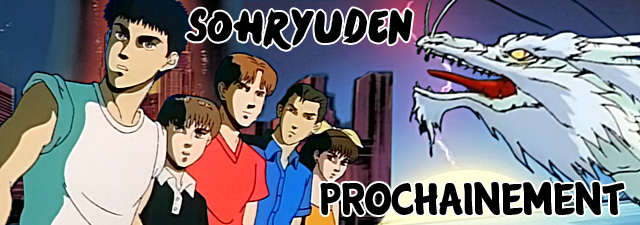
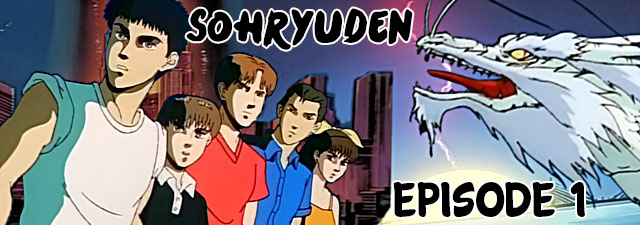
new release+bgd update

diff --git a/2016-10-30.html b/2016-10-30.html
@@ -1,7 +1,7 @@
-<!DOCTYPE html>
+<!DOCTYPE html>
 <html lang="fr-FR">
 	<head>
-		<title>Sohryuden - Legend of the Dragon Kings | Nobluesky Fansub</title>
+		<title>Sohryuden 01 vostfr | Nobluesky Fansub</title>
 		<meta charset="utf-8" />
 		<link rel="Shortcut Icon" type="image/x-icon" href="favicon.ico" />
 		<link href="fonts/fonts.css" rel="stylesheet" type="text/css" />
@@ -24,7 +24,6 @@
 	</div>
 </div>
 <!-- end #menu -->
-
 <div id="page-wrapper">
 <div id="sidebar-wrapper">
 	<div id="sidebar">
@@ -37,21 +36,38 @@
 	<div id="article">
 		<div id="content">
 			<div class="post">
-				<h1 class="title">Sohryuden</h1>
-				<div style="clear: both;">&nbsp;</div>
+				<h1 class="title">Sohryuden 01 vostfr</h1>
+				<p class="meta"><span class="date">30 Octobre 2016</span><span class="posted">Posté par <a href="about.html#nobluesky">Nobluesky</a></span></p>
 				<div style="clear: both;">&nbsp;</div>
 				<div class="entry">
-					<img class="post-images" src="images/2016/sohryuden.jpg" alt="" />
-					<p>12 OAV de 45 min, 1991.</p>
-					<p>Aussi connue sous les titres de Legend of the Dragon Kings, Legend of the Four Kings, Sohryuuden, Souryuuden.</p>
-					<p>Les frères Ryudo semblent mener une vie normale dans leur grande maison.</p>
-					<p>Mais ils gardent un secret millénaire : leurs ancêtres étaient des dragons, et les immenses pouvoirs de ces aïeux légendaires pourraient bien se réveiller, sous l'impulsion d'une mystérieuses organisation qui ne recule devant rien pour les manipuler.</p>
-					<p>Adaptée très librement du manga, notamment au niveau du design des personnages, Sohryuden est une série plus proche des années 80 que 90, à prendre impérativement au second degré de par son exagération qui touche parfois au gore, mais qui reste un bon divertissement.</p>
+					<img class="post-images" src="images/2016/news29.jpg" alt="" />
+					<p>Bien le bonsoir.</p>
+					<p>Après une gestation interminable, digne d'une vache (9 mois), ou même d'une éléphante (20 à 22 mois), j'annonce ouverte la chasse au dragon !</p>
+					<p>Dragon dont je ne connais pas la période de gestation d'ailleurs. D'ailleurs ça serait plutôt incubation, car ça pond des œufs un dragon nan ?</p>
+					<p>Je le rappelle de nouveau car ça ne fait pas de mal : inutile de prendre la série au sérieux. Les clichés sont volontaires, la violence exagérée et ringarde aussi :P C'est pour ça que j'apprécie cette série qui, si elle n'est pas d'une qualité extraordinaire, reste une bonne détente.</p>
+					<p>Et puis merde, on fait ce qu'on veut dans le fansub, c'est fait pour !</p>
+					<p>Je le rappelle aussi, le choix des vieilles séries est bénéfique pour éviter l'oversub et le fansub de séries sous licence, c'est pour ça que je me prends aujourd'hui en écrivant cette news pour quelqu'un de trop cool (kakkoii !!). Nan mais t'as vu son égo, à Nobluesky xD</p>
+					<p>Merci à Yone pour sa correction.</p>
+					<p>À dans pas trop longtemps pour Teekyuu.</p>
 					<h3>Téléchargements et streaming</h3>
-					Episode 1 :
 					<p class="links dl"><a href="http://jheberg.net/captcha/nobluesub-sohryuden-01-640x480-x264/" class="button-dl">Jheberg</a></p>&nbsp; | &nbsp;
 					<p class="links dl"><a href="https://rutube.ru/video/02a8bc26f97dad34abd8f876aeedd54a/" class="button-dl">Rutube</a></p>&nbsp; | &nbsp;
 					<p class="links dl"><a href="https://mega.nz/#!HRNiSL7Q!jIER_e-xwEpuZ0XOGxNOK7DHBjDfLUaDLhXY1T0Bw4c" class="button-dl">Mega</a></p>
+					<h3>Commentaires</h3>
+					<div id="disqus_thread"></div>
+					<script type="text/javascript">
+						/* * * CONFIGURATION VARIABLES: EDIT BEFORE PASTING INTO YOUR WEBPAGE * * */
+						var disqus_shortname = 'noblueskyfansub'; // required: replace example with your forum shortname
+
+						/* * * DON'T EDIT BELOW THIS LINE * * */
+						(function() {
+							var dsq = document.createElement('script'); dsq.type = 'text/javascript'; dsq.async = true;
+							dsq.src = '//' + disqus_shortname + '.disqus.com/embed.js';
+							(document.getElementsByTagName('head')[0] || document.getElementsByTagName('body')[0]).appendChild(dsq);
+						})();
+					</script>
+					<noscript>Activez javascript pour voir les commentaires.</noscript>
+					<a href="http://disqus.com" class="dsq-brlink">commentaires propulsés par <span class="logo-disqus">Disqus</span></a>
 				</div>
 			</div>
 			<div style="clear: both;">&nbsp;</div>

diff --git a/index.html b/index.html
@@ -35,7 +35,7 @@
 	<div class="slider-wrapper theme-default">
 		<div class="ribbon"></div>
 		<div id="slider" class="nivoSlider">
-			<a href="2016-10-19.html"><img src="images/img02.jpg" alt="" /></a><a href="sohryuden.html"><img src="images/img01.jpg" alt="" /></a>
+			<a href="2016-10-30.html"><img src="images/img01.jpg" alt="" /></a><a href="2016-10-19.html"><img src="images/img02.jpg" alt="" /></a>
 		</div>
 	</div>
 <script type="text/javascript">
@@ -59,6 +59,20 @@
 				<div style="clear: both;">&nbsp;</div>
 				<div class="entry">
 					<p>Bienvenue sur le site de la Nobluesky Fansub !</p>
+				</div>
+			</div>
+			<div class="post">
+				<h1 class="title"><a href="2016-10-30.html">Sohryuden 01 vostfr</a></h1>
+				<p class="meta"><span class="date">30 Octobre 2016</span><span class="posted">Posté par <a href="about.html#nobluesky">Nobluesky</a></span></p>
+				<p><a href="http://nobluesub.com/2016-10-30.html#disqus_thread">Commentaires</a></p>
+				<div style="clear: both;">&nbsp;</div>
+				<div class="entry">
+					<img class="post-images" src="images/2016/news29.jpg" alt="" />
+					<p><p>Bien le bonsoir.</p>
+					<p>Après une gestation interminable, digne d'une vache (9 mois), ou même d'une éléphante (20 à 22 mois), j'annonce ouverte la chasse au dragon !</p>
+					<p>Dragon dont je ne connais pas la période de gestation d'ailleurs. D'ailleurs ça serait plutôt incubation, car ça pond des œufs un dragon nan ?</p>
+					<p>Je le rappelle de nouveau car ça ne fait pas de mal : inutile de prendre la série au sérieux. Les clichés sont volontaires...</p>
+					<p class="links"><a href="2016-10-30.html" class="button">Lire la suite</a></p>
 				</div>
 			</div>
 			<div class="post">
@@ -114,20 +128,6 @@
 					<p>Hayato et son équipe ont fait partie intégrante de ma vie durant ces deux dernières années, et c'est un peu comme si j'avais vécu avec les personnages durant toutes ces heures de travail.</p>
 					<p>Ce que j'aime particulièrement...</p>
 					<p class="links"><a href="2016-09-01.html" class="button">Lire la suite</a></p>
-				</div>
-			</div>
-			<div class="post">
-				<h1 class="title"><a href="2016-08-06.html">Future GPX Cyber Formula BD 36 vostfr</a></h1>
-				<p class="meta"><span class="date">6 Août 2016</span><span class="posted">Posté par <a href="about.html#nobluesky">Nobluesky</a></span></p>
-				<p><a href="http://nobluesub.com/2016-08-06.html#disqus_thread">Commentaires</a></p>
-				<div style="clear: both;">&nbsp;</div>
-				<div class="entry">
-					<img class="post-images" src="images/2016/news24.jpg" alt="" />
-					<p>Bonjour à tous les fans de Cyber Formule !</p>
-					<p>Aujourd'hui, grande nouvelle, on commence la finale du Grand Prix Mondial ! Avec une débauche d'images sympas, et une ambiance du tonnerre.</p>
-					<p>Ganbatte, Hayato !!</p>
-					<p>Bon épisode, et à la prochaine...</p>
-					<p class="links"><a href="2016-08-06.html" class="button">Lire la suite</a></p>
 				</div>
 			</div>
 			<div id="button-page-wrapper">

diff --git a/page2.html b/page2.html
@@ -31,7 +31,7 @@
 	<div class="slider-wrapper theme-default">
 		<div class="ribbon"></div>
 		<div id="slider" class="nivoSlider">
-			<a href="2016-10-19.html"><img src="images/img02.jpg" alt="" /></a><a href="sohryuden.html"><img src="images/img01.jpg" alt="" /></a>
+			<a href="2016-10-30.html"><img src="images/img01.jpg" alt="" /></a><a href="2016-10-19.html"><img src="images/img02.jpg" alt="" /></a>
 		</div>
 	</div>
 <script type="text/javascript">
@@ -50,6 +50,20 @@
 </div>
 	<div id="feed">
 		<div id="content">
+			<div class="post">
+				<h1 class="title"><a href="2016-08-06.html">Future GPX Cyber Formula BD 36 vostfr</a></h1>
+				<p class="meta"><span class="date">6 Août 2016</span><span class="posted">Posté par <a href="about.html#nobluesky">Nobluesky</a></span></p>
+				<p><a href="http://nobluesub.com/2016-08-06.html#disqus_thread">Commentaires</a></p>
+				<div style="clear: both;">&nbsp;</div>
+				<div class="entry">
+					<img class="post-images" src="images/2016/news24.jpg" alt="" />
+					<p>Bonjour à tous les fans de Cyber Formule !</p>
+					<p>Aujourd'hui, grande nouvelle, on commence la finale du Grand Prix Mondial ! Avec une débauche d'images sympas, et une ambiance du tonnerre.</p>
+					<p>Ganbatte, Hayato !!</p>
+					<p>Bon épisode, et à la prochaine...</p>
+					<p class="links"><a href="2016-08-06.html" class="button">Lire la suite</a></p>
+				</div>
+			</div>
 			<div class="post">
 				<h1 class="title"><a href="2016-07-21.html">Future GPX Cyber Formula BD 35 vostfr</a></h1>
 				<p class="meta"><span class="date">21 Juillet 2016</span><span class="posted">Posté par <a href="about.html#nobluesky">Nobluesky</a></span></p>
@@ -103,19 +117,6 @@
 					<p>En ce jour maussade et orageux, je n'ai pas encore débranché mon PC ni mes autres équipements, car je devais terminer de sortir l'épisode que vous attendez avec impatience!</p>
 					<p>Bon, la dernière fois que j'ai fait ça...</p>
 					<p class="links"><a href="2016-05-29.html" class="button">Lire la suite</a></p>
-				</div>
-			</div>
-			<div class="post">
-				<h1 class="title"><a href="2016-05-16.html">Teekyuu Saison 7 Ep 9 à 12 vostfr</a></h1>
-				<p class="meta"><span class="date">16 Mai 2016</span><span class="posted">Posté par <a href="about.html#nobluesky">Nobluesky</a></span></p>
-				<p><a href="http://nobluesub.com/2016-05-16.html#disqus_thread">Commentaires</a></p>
-				<div style="clear: both;">&nbsp;</div>
-				<div class="entry">
-					<img class="post-images" src="images/2016/news19.jpg" alt="" />
-					<p>Bonsoir,</p>
-					<p>Voici la fin de Teekyuu... pour l'instant!</p>
-					<p>Des épisodes plus que jamais débridés, secouant de rire les esprits chagrins les plus rétifs...</p>
-					<p class="links"><a href="2016-05-16.html" class="button">Lire la suite</a></p>
 				</div>
 			</div>
 			<div id="button-page-wrapper">

diff --git a/archives.html b/archives.html
@@ -46,6 +46,7 @@
 					<div>
 					<!-- here comes spoiler content -->
 					<div style="clear: both;">&nbsp;</div>
+					<p><a href="2016-05-16.html" target="_blank" >Teekyuu Saison 7 Ep 9 à 12 vostfr</a></p>
 					<p><a href="2016-05-09_2.html" target="_blank" >On recrute un correcteur !</a></p>
 					<p><a href="2016-05-09.html" target="_blank" >Future GPX Cyber Formula BD 31 vostfr</a></p>
 					<p><a href="2016-04-25.html" target="_blank" >Teekyuu Saison 7 Ep 5 à 8 vostfr</a></p>
